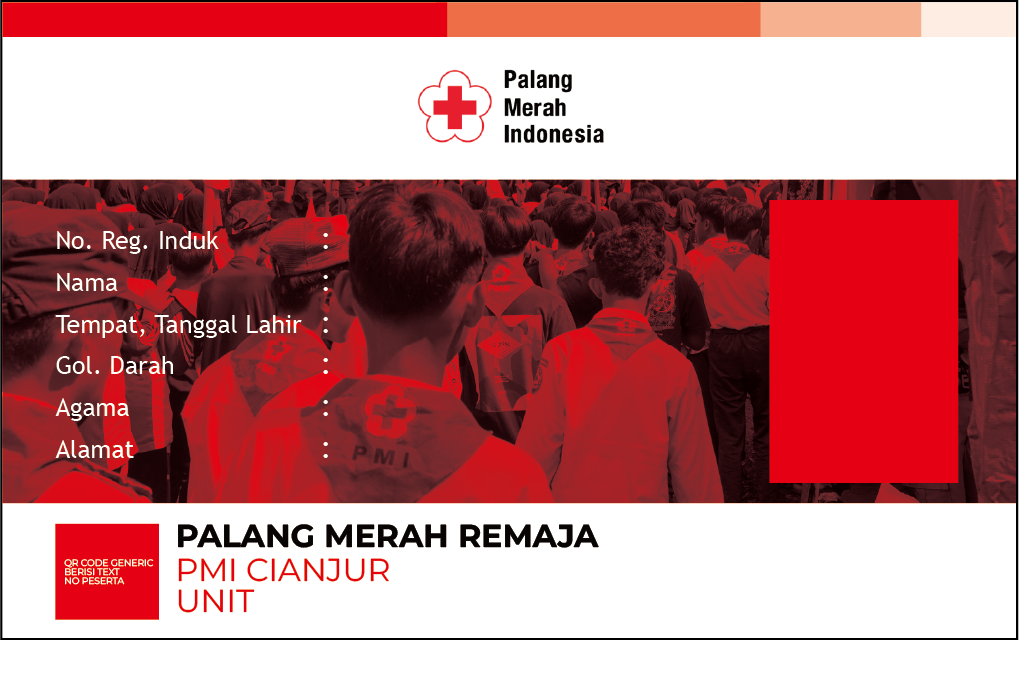
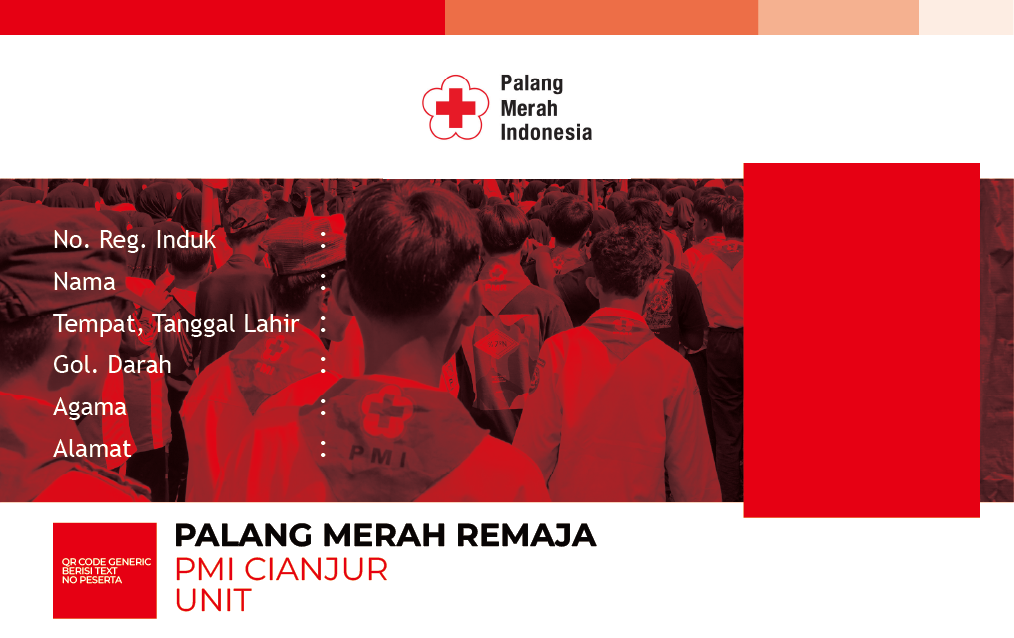
Sesuaikan layout KTA dengan template terbaru

diff --git a/src/lib/generate-kta-pdf.ts b/src/lib/generate-kta-pdf.ts
@@ -183,14 +183,14 @@ async function renderFront(namaSekolah: string, participant: KtaParticipant) {
 
   if (participant.fotoBuffer) {
     const photo = await loadImage(participant.fotoBuffer)
-    drawCoverFit(ctx, photo, x(770), y(200), x(190), y(283))
+    drawCoverFit(ctx, photo, x(744), y(163), x(236), y(355))
   } else {
     ctx.fillStyle = '#e30613'
-    ctx.fillRect(x(770), y(200), x(190), y(283))
+    ctx.fillRect(x(744), y(163), x(236), y(355))
     ctx.fillStyle = '#ffffff'
     ctx.font = `${y(24)}px Arial-Bold`
     ctx.textAlign = 'center'
-    ctx.fillText('Foto tidak ada', x(865), y(342))
+    ctx.fillText('Foto tidak ada', x(862), y(341))
   }
 
   const qrBuffer = await QRCode.toBuffer(participant.noPeserta ?? participant.namaLengkap, {
